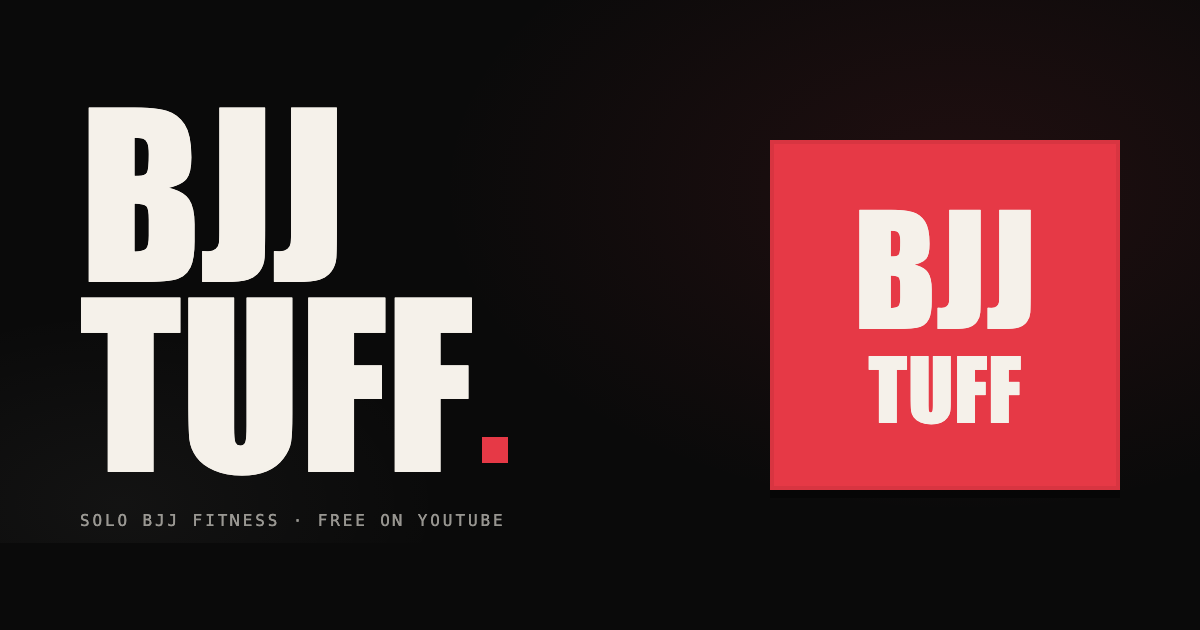
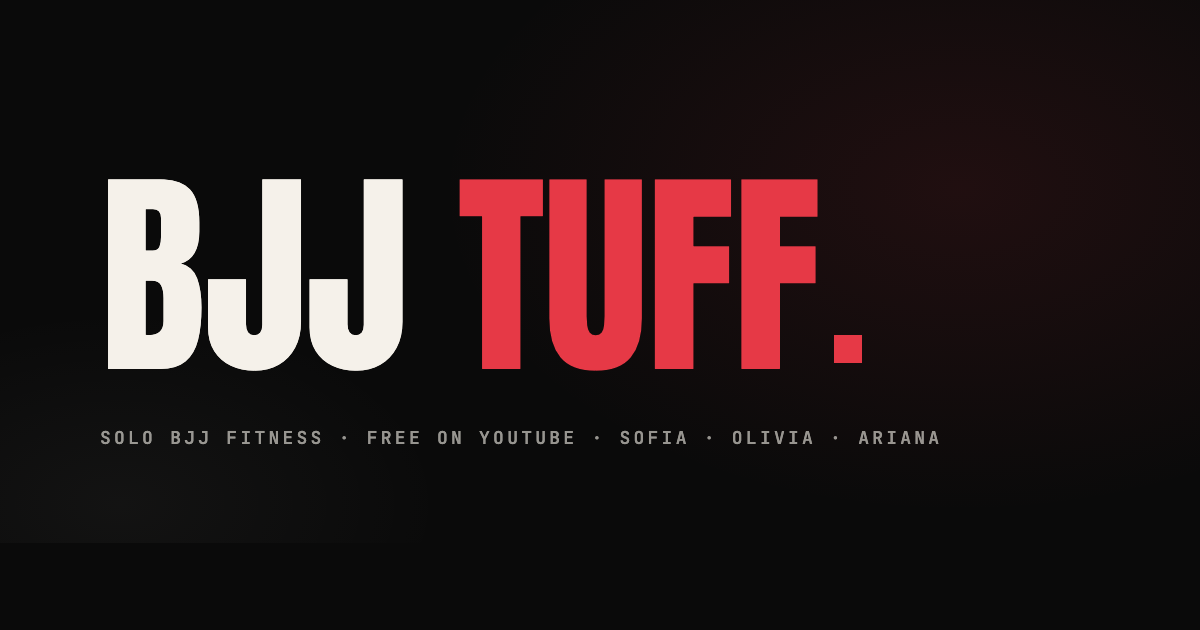
Simplify brand to two-color wordmark (BJJ bone, TUFF blood)
Per Frank: drop the patch/symbol concepts. The brand is a clean
typographic mark — Anton wordmark with BJJ in bone (or ink on light
backgrounds), TUFF in blood, anchored by the brand dot.

- Landing page header + footer wordmarks now color-split (BJJ neutral, TUFF blood)
- OG image regenerated as the two-color wordmark + cast meta line
- wordmark.svg + wordmark-dark.svg rebuilt with the new color split
- favicon simplified to a solid blood square with bone "T"
- Logo guide rewritten for the two-color system
- Earlier patch/lockup/triangle concepts moved to brand/legacy/
- brand/concepts/ removed (rejected exploration)

diff --git a/brand/og-image.html b/brand/og-image.html
@@ -14,16 +14,14 @@
     background-image:
       radial-gradient(800px 500px at 80% 30%, rgba(230, 57, 70, 0.10), transparent 65%),
       radial-gradient(500px 300px at 10% 80%, rgba(245, 241, 234, 0.04), transparent 65%);
-    display: grid;
-    grid-template-columns: 1fr 350px;
-    align-items: center;
-    padding: 80px;
-    gap: 80px;
+    display: flex;
+    flex-direction: column;
+    justify-content: center;
+    padding: 80px 100px;
+    gap: 32px;
   }
-  .left { display: flex; flex-direction: column; gap: 24px; align-items: flex-start; }
   .wordmark {
     font-family: "Anton", "Impact", "Arial Narrow Bold", sans-serif;
-    color: #F5F1EA;
     font-size: 220px;
     line-height: 0.86;
     letter-spacing: -0.005em;
@@ -32,52 +30,31 @@
     position: relative;
     display: inline-block;
   }
+  .wordmark .bjj { color: #F5F1EA; }
+  .wordmark .tuff { color: #E63946; }
   .wordmark .dot {
-    position: absolute;
-    bottom: 16px;
-    right: -36px;
-    width: 26px;
-    height: 26px;
+    display: inline-block;
+    width: 28px;
+    height: 28px;
     background: #E63946;
+    margin-left: 14px;
+    vertical-align: baseline;
+    transform: translateY(-6px);
   }
   .meta {
     font-family: "JetBrains Mono", "Menlo", monospace;
-    font-size: 16px;
+    font-size: 18px;
     letter-spacing: 0.18em;
     text-transform: uppercase;
     color: rgba(245, 241, 234, 0.6);
-    margin-top: 8px;
+    margin-top: 24px;
   }
-  .patch {
-    width: 350px;
-    height: 350px;
-    background: #E63946;
-    box-shadow: inset 0 0 0 4px rgba(0,0,0,0.06), 0 8px 0 rgba(0,0,0,0.4);
-    display: flex;
-    flex-direction: column;
-    align-items: center;
-    justify-content: center;
-    color: #F5F1EA;
-    font-family: "Anton", "Impact", "Arial Narrow Bold", sans-serif;
-    text-transform: uppercase;
-    line-height: 0.92;
-    letter-spacing: 0.02em;
-    font-weight: 400;
-  }
-  .patch .top { font-size: 150px; }
-  .patch .bottom { font-size: 84px; margin-top: 12px; }
 </style>
 </head>
 <body>
 <div class="canvas">
-  <div class="left">
-    <div class="wordmark">BJJ<br/>TUFF<span class="dot"></span></div>
-    <div class="meta">SOLO BJJ FITNESS · FREE ON YOUTUBE</div>
-  </div>
-  <div class="patch">
-    <div class="top">BJJ</div>
-    <div class="bottom">TUFF</div>
-  </div>
+  <div class="wordmark"><span class="bjj">BJJ</span> <span class="tuff">TUFF</span><span class="dot"></span></div>
+  <div class="meta">SOLO BJJ FITNESS · FREE ON YOUTUBE · SOFIA · OLIVIA · ARIANA</div>
 </div>
 </body>
 </html>

diff --git a/index.html b/index.html
@@ -761,7 +761,7 @@
 
   <header>
     <div class="container">
-      <a href="#top" class="wordmark">BJJ Tuff<span class="dot" aria-hidden="true"></span></a>
+      <a href="#top" class="wordmark">BJJ <span style="color:var(--blood);">Tuff</span><span class="dot" aria-hidden="true"></span></a>
       <a href="https://youtube.com/@bjjtuff" target="_blank" rel="noopener" class="header-link">Watch on YouTube ↗</a>
     </div>
   </header>
@@ -1054,7 +1054,7 @@
 
   <footer>
     <div class="container">
-      <a href="#top" class="wordmark" style="font-size:18px;">BJJ Tuff<span class="dot" aria-hidden="true"></span></a>
+      <a href="#top" class="wordmark" style="font-size:18px;">BJJ <span style="color:var(--blood);">Tuff</span><span class="dot" aria-hidden="true"></span></a>
       <div class="footer-social">
         <a href="https://youtube.com/@bjjtuff" target="_blank" rel="noopener">YouTube ↗</a>
         <a href="https://instagram.com/bjjtuff" target="_blank" rel="noopener">Instagram ↗</a>

diff --git a/brand/logo-guide.md b/brand/logo-guide.md
@@ -1,60 +1,55 @@
-# BJJ Tuff — Brand & Logo Guide
+# BJJ TUFF — Brand & Logo Guide
 
-**Version:** 1.0.0 (2026-04-28)
+**Version:** 2.0.0 (2026-04-28)
 
-The BJJ Tuff mark is built for three jobs: digital, print, and embroidery. Every file in this folder respects the tightest of those constraints (embroidery: solid shapes, limited colors, no fine detail).
+The BJJ TUFF mark is a two-color wordmark. No symbol, no patch — just the type and the dot.
+
+- **BJJ** sets in bone (or ink on light backgrounds).
+- **TUFF** sets in blood red.
+- A single blood-red square dot anchors the lockup.
+- Type is **Anton** (Google Fonts) — the same display font used on the landing page.
 
 ---
 
 ## The system
 
-### Asset matrix
-
-| File | Use | Best for |
-|------|-----|----------|
-| `mark-default.svg` | Primary square mark, blood ground, bone type | Social avatars, app icons, full-color print, t-shirt back, embroidered patches |
-| `mark-bone.svg` | Light variant: bone ground, ink type | Light backgrounds, low-color print runs |
-| `mark-ink.svg` | Mono dark: ink ground, bone type | All-black single color print, neutral co-branding |
-| `mark-outline.svg` | Outline only, single color (uses `currentColor`) | 1-thread embroidery, foil stamp, etching, debossing, anywhere a single ink/thread is needed |
-| `lockup-horizontal.svg` | Square mark + wordmark beside, light background | Web headers, banners, business cards, email signatures |
-| `lockup-horizontal-dark.svg` | Same lockup, dark background variant | Hero banners, social posts on dark backgrounds |
-| `lockup-stacked.svg` | Square mark above wordmark | Posters, badges, jacket back panel, polaroid-style placements |
-| `wordmark.svg` | Type only, with brand dot accent | Minimalist applications, footer, legal documents |
-| `wordmark-dark.svg` | Wordmark on dark backgrounds | Dark UI, dark print substrates |
-| `favicon.svg` | "BT" monogram for tiny sizes (under 32px) | Browser tabs, app icons under 32px, anywhere the full mark would lose legibility |
+| File | Use |
+|------|-----|
+| `wordmark.svg` | Light backgrounds — BJJ in ink, TUFF in blood, dot accent |
+| `wordmark-dark.svg` | Dark backgrounds — BJJ in bone, TUFF in blood, dot accent |
+| `favicon.svg` | Tiny applications (browser tab, app icon under 32 px) — solid blood square with bone "T" |
+| `og-image.png` | 1200 × 630 social preview render of the wordmark on dark |
+| `og-image.html` | Source template for the OG render |
+| `legacy/` | Earlier concept marks (square patch, lockups). Kept for reference. Not part of the active system. |
 
 ### Color tokens
 
-| Token | Hex | Pantone (closest, uncoated) | Thread (Madeira Polyneon, closest) |
-|-------|-----|----------------------------|------------------------------------|
+| Token | Hex | Pantone (closest, uncoated) | Thread (Madeira Polyneon) |
+|-------|-----|-----------------------------|---------------------------|
 | Blood | `#E63946` | PMS 178 U | 1747 (Cherry) |
 | Bone | `#F5F1EA` | PMS 7527 U | 1170 (Off White) |
 | Ink | `#0A0A0A` | PMS Black 6 U | 1800 (Black) |
 
-Three colors. No more. Greys, navies, browns, accents are not part of the brand.
+Three colors. No more. Greys, navies, browns are not part of the brand.
 
 ### Typography
 
-- **Display:** Anton (Google Fonts). Used in the wordmark and inside the mark.
-- **Production note:** for print and embroidery vendors, **convert text to outlines / paths** in Illustrator, Affinity Designer, Inkscape, or Figma before sending to the vendor. The SVG files reference Anton + Impact as fallback; outlining guarantees the vendor renders the exact letterforms.
+- **Display:** Anton (Google Fonts).
+- For print and embroidery vendors, **convert text to outlines / paths** in Illustrator, Affinity Designer, Inkscape, or Figma before sending the file. The SVGs reference Anton + Impact as fallback; outlining guarantees the vendor renders the exact letterforms.
 
 ---
 
 ## Sizing
 
-| Application | Minimum size of the square mark |
-|-------------|----------------------------------|
-| Embroidery, single position (left chest, sleeve, hat front) | 1.5 in (38 mm) |
-| Embroidery, large back panel | 4 in (100 mm) minimum, 6 to 10 in typical |
-| Screen print on apparel | 0.5 in (12 mm) — but anything under 1 in will lose the inner type detail |
-| DTG / DTF print | 0.75 in (20 mm) |
-| Digital | 24 px minimum for the full square mark; under that, switch to `favicon.svg` (BT monogram) |
+| Application | Minimum size of the wordmark |
+|-------------|------------------------------|
+| Embroidery, single position | 2.5 in (64 mm) wide minimum so the type stays legible |
+| Screen print on apparel | 1.5 in (38 mm) wide minimum |
+| Digital | 96 px wide minimum for the full wordmark; under that, switch to `favicon.svg` |
 
 ### Clear space
 
-Always leave clear space equal to **1/4 the mark's width** on all sides. Nothing else (other type, other logos, edges) should enter that space.
-
-For a 200 px mark, that's 50 px clear on every side.
+Leave clear space equal to **the height of the J in BJJ** on all sides. Nothing else (other type, other logos, edges) should enter that space.
 
 ---
 
@@ -62,34 +57,26 @@ For a 200 px mark, that's 50 px clear on every side.
 
 ### Embroidery (caps, polos, jackets, patches)
 
-- Use `mark-default.svg` (3-thread: blood, bone) or `mark-outline.svg` (1-thread).
-- Outline the type before sending to vendor. Vendors often charge a digitization fee per design — submit one outlined SVG / EPS / AI per color variant.
-- Madeira Polyneon thread numbers above are starting recommendations; ask your vendor to confirm against their swatch book and your fabric color.
-- Avoid embroidering the mark under 1.5 in (38 mm) — the inner type will fill in.
+- Two-color (blood + bone, or blood + ink on light-color garments).
+- Outline the type before sending to vendor.
+- Wordmarks under 2 in (50 mm) wide may lose detail in the J counters and the F crossbars; bump up to 3 in (75 mm) for hat fronts.
 
 ### Screen print (t-shirts, rash guards, hoodies)
 
-- Use `mark-default.svg`, `mark-bone.svg`, `mark-ink.svg`, or `mark-outline.svg` depending on substrate.
-- For dark substrates: `mark-default.svg` (blood + bone reads bold) or `mark-ink.svg` flipped to bone outline.
-- For white/cream substrates: any default works; `mark-bone.svg` will go to `mark-ink.svg` for crisp print.
+- Two-color screen print works great. For dark substrates, use `wordmark-dark.svg` (BJJ bone, TUFF blood).
+- For light substrates, use `wordmark.svg` (BJJ ink, TUFF blood).
 - Print at 300 dpi minimum from outlined vector source.
-
-### Rash guards (sublimation print)
-
-- Sublimation reproduces full color cleanly. Use `mark-default.svg` directly — no thread limits, no halftone issues.
-- Sleeve placement: 3 in (75 mm) tall mark. Chest placement: 4 to 5 in (100 to 125 mm) tall.
 
 ### Mats
 
-- Edge stamp: `mark-outline.svg` or `mark-default.svg` at 6 to 8 in (150 to 200 mm).
-- Center print: `mark-default.svg` at 18 to 24 in (450 to 600 mm) for visibility on camera.
+- Edge stamp: full wordmark at 8 to 12 in (200 to 300 mm) wide.
+- Center print: full wordmark at 24 to 36 in (600 to 900 mm) wide for visibility on camera.
 
 ### Digital
 
-- Web headers, social avatars: `mark-default.svg` is the default.
-- Favicons: `favicon.svg` (BT monogram).
-- iOS / Android app icons: render `mark-default.svg` to a 1024x1024 PNG, then export the platform-specific icon set.
-- Email signatures: `lockup-horizontal.svg` at 200 px wide.
+- Web headers, social avatars: render `wordmark-dark.svg` for the brand's standard dark canvas.
+- Favicons: `favicon.svg`.
+- iOS / Android app icons: render `favicon.svg` to a 1024 × 1024 PNG, then export the platform-specific icon set.
 
 ---
 
@@ -100,24 +87,22 @@ For a 200 px mark, that's 50 px clear on every side.
 - Use the supplied SVG files as the source of truth.
 - Convert text to outlines before sending to print or embroidery vendors.
 - Maintain the clear space rule.
-- Reproduce in the three brand colors only.
+- Keep the BJJ/TUFF color split (BJJ neutral, TUFF blood) — this is the brand's signature treatment.
 
 ### Don't
 
+- Don't reverse the color split (TUFF should never appear in bone or ink while BJJ is blood).
 - Don't recolor outside the blood / bone / ink palette.
 - Don't add gradients, shadows, glows, or strokes that aren't in the supplied files.
-- Don't stretch the mark non-proportionally.
-- Don't rotate the mark for decorative use.
+- Don't stretch the wordmark non-proportionally.
 - Don't redraw the type in a different font.
-- Don't add an outline around the square fill version.
-- Don't place the mark on busy photographic backgrounds; if you must, put it on a solid blood, bone, or ink card first.
+- Don't place the wordmark on busy photographic backgrounds; if you must, put it on a solid blood, bone, or ink card first.
 
 ---
 
 ## Future additions (when needed)
 
-- `mark-default.png` and `mark-default@2x.png` raster exports for vendors who require PNG.
-- `mark-default.eps` and `.ai` for legacy print vendors.
+- `wordmark.png` and `wordmark@2x.png` raster exports for vendors who require PNG.
+- `wordmark.eps` and `.ai` for legacy print vendors.
 - iOS and Android app icon sets.
-- Animated SVG mark for video bumpers (cast intros, channel idents).
-- Full type system extension (custom outlined letterforms) once Frank confirms direction with Drop 01.
+- Animated SVG wordmark for video bumpers (cast intros, channel idents).
